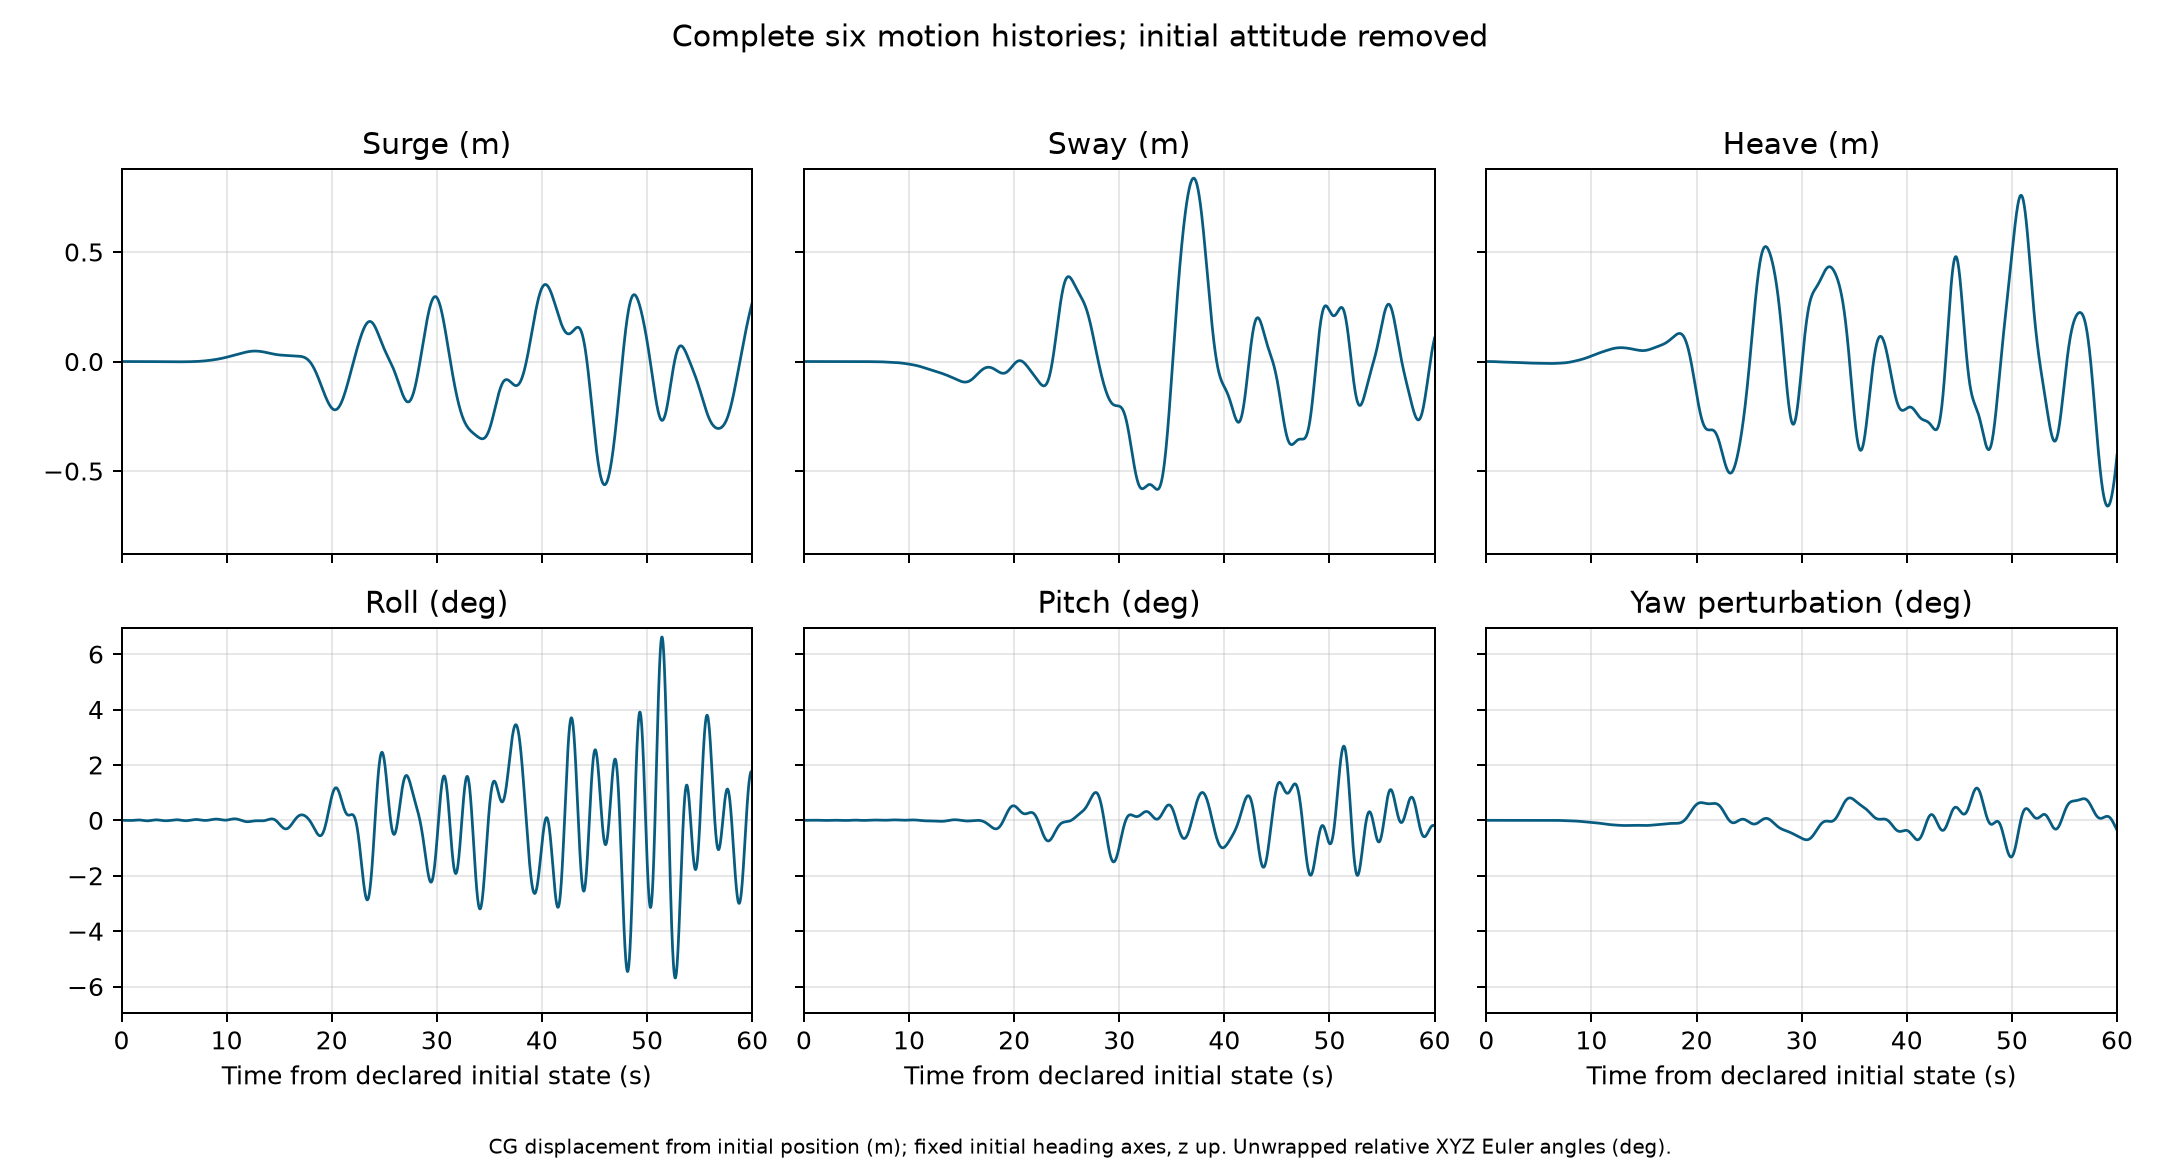
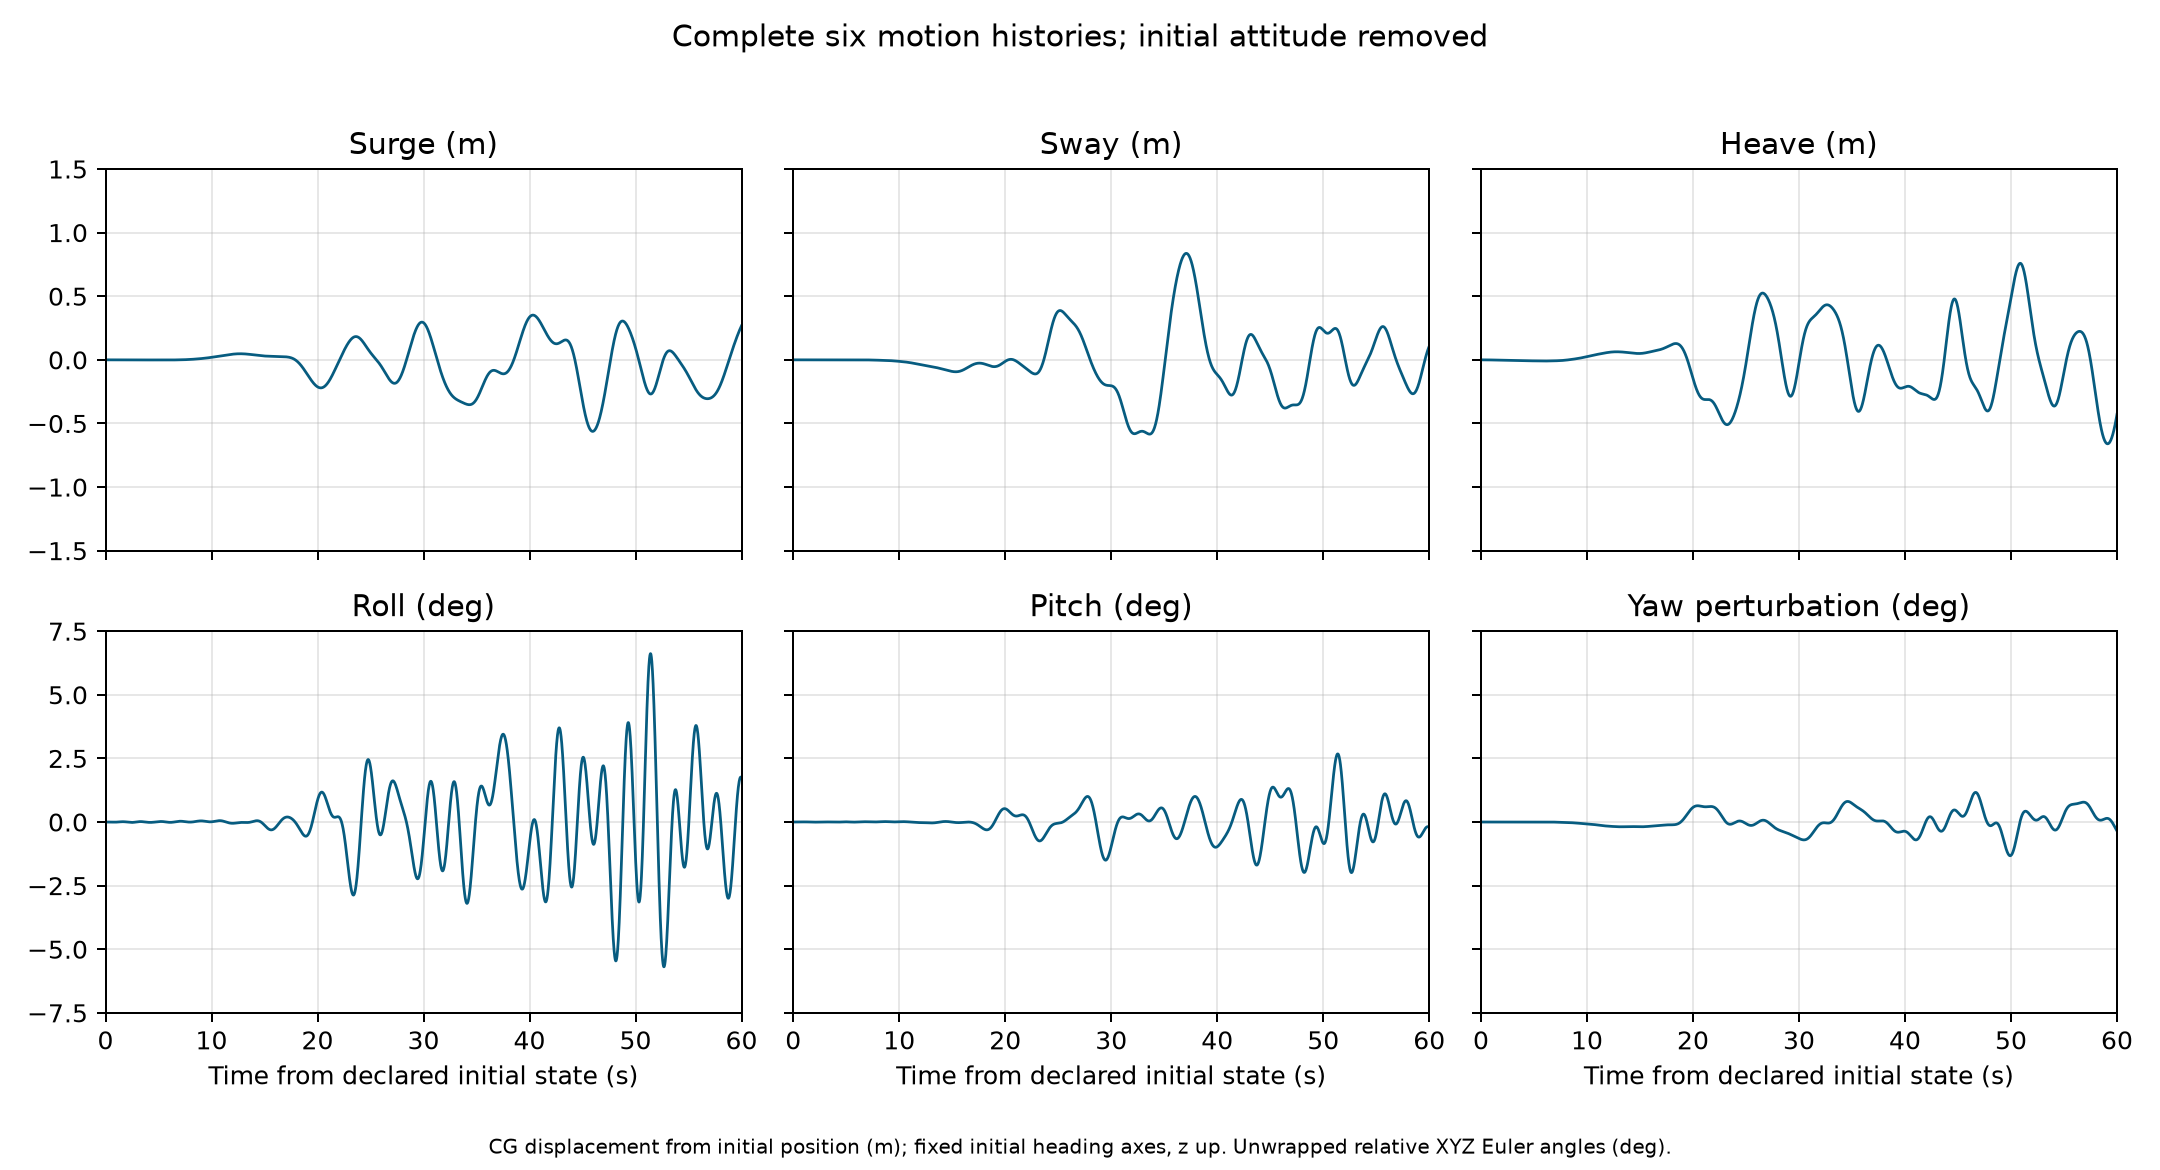
Use seven symmetric motion ticks and regenerate canonical chart

diff --git a/tests/test_result_plot.py b/tests/test_result_plot.py
@@ -119,3 +119,35 @@ def test_plot_rejects_wrong_contract_and_extension(tmp_path):
         motion_histories(object())
     with pytest.raises(ValueError, match='.png'):
         save_motion_plot(saved_motion_result([0., 1.]), tmp_path/'result.pdf')
+
+
+@pytest.mark.parametrize('extent', [0., 1e-9, 1., 1e9])
+def test_seven_nice_ticks_zero_middle_shared_rows_and_limits(tmp_path, monkeypatch, extent):
+    from matplotlib.backends.backend_agg import FigureCanvasAgg
+    import topwater.result_plot as module
+    times = np.array([0., 1., 2.])
+    histories = extent*np.array([[0., 0., 0., 0., 0., 0.],
+                                 [1., -.4, .7, -8., 3., .5],
+                                 [-.2, .8, -.6, 4., -2., 1.]])
+    monkeypatch.setattr(module, 'motion_histories', lambda result: (times, histories))
+    original = FigureCanvasAgg.print_png
+    observed = []
+
+    def inspect(canvas, *args, **kwargs):
+        observed.extend((axis.get_yticks().copy(), axis.get_ylim()) for axis in canvas.figure.axes)
+        return original(canvas, *args, **kwargs)
+
+    monkeypatch.setattr(FigureCanvasAgg, 'print_png', inspect)
+    save_motion_plot(saved_motion_result(times), tmp_path/'case'/'result.png')
+    assert len(observed) == 6
+    for index, (ticks, limits) in enumerate(observed):
+        assert len(ticks) == 7
+        assert ticks[3] == 0.
+        np.testing.assert_allclose(ticks, -ticks[::-1], rtol=0., atol=0.)
+        np.testing.assert_array_equal(limits, ticks[[0, -1]])
+        np.testing.assert_array_equal(ticks, observed[(index//3)*3][0])
+        np.testing.assert_array_equal(limits, observed[(index//3)*3][1])
+        assert np.max(abs(histories[:, index])) <= limits[1]/1.05
+        step = ticks[4]
+        nice = step/(10.**np.floor(np.log10(step)))
+        assert any(np.isclose(nice, value) for value in (1., 2., 2.5, 5., 10.))

diff --git a/src/topwater/result_plot.py b/src/topwater/result_plot.py
@@ -5,6 +5,7 @@ calculation belongs here. Absolute quaternions remain the orientation authority;
 Euler curves are a display of departure from the initial attitude.
 """
 import os
+import math
 from pathlib import Path
 import tempfile
 import warnings
@@ -13,6 +14,19 @@ import numpy as np
 from scipy.spatial.transform import Rotation
 
 from .workflow_data import Result
+
+
+def _motion_ticks(values):
+    """Seven symmetric nice decimal ticks, with at least 5% data headroom."""
+    extent = float(np.max(np.abs(values)))
+    if extent == 0.:
+        step = 1.
+    else:
+        target = (extent/3)*1.05
+        power = 10.**math.floor(math.log10(target))
+        step = next(multiplier*power for multiplier in (1., 2., 2.5, 5., 10.)
+                    if multiplier*power >= target)
+    return np.arange(-3, 4, dtype=float)*step
 
 
 def motion_histories(result: Result):
@@ -76,10 +90,10 @@ def save_motion_plot(result: Result, path):
         if index >= 3:
             axis.set_xlabel('Time from declared initial state (s)')
     for row, values in zip(axes, (histories[:, :3], histories[:, 3:])):
-        extent = float(np.max(np.abs(values)))
-        limit = 1.05*extent if extent > 0 else 1.
+        ticks = _motion_ticks(values)
         for axis in row:
-            axis.set_ylim(-limit, limit)
+            axis.set_yticks(ticks)
+            axis.set_ylim(ticks[0], ticks[-1])
     figure.suptitle('Complete six motion histories; initial attitude removed')
     figure.text(.5, .014,
                 'CG displacement from initial position (m); fixed initial heading axes, z up. '

diff --git a/docs/checkpoint-handoff.md b/docs/checkpoint-handoff.md
@@ -6,6 +6,26 @@ Historical queued work is not authorization to restart it.
 
 ## Current priority and completed workflow
 
+Latest added user request: visualization expert should render water to the actual
+moving waterline and make the hull above it transparent, keeping wetted hull
+visible. `/root/result_renderer` implemented the bounded change in isolated
+worktree artifacts/worktrees/waterline-visualization. Cap independently approved
+the frozen renderer/tests/docs; root tests and private preview precede full video
+regeneration. No producer, surface data or physics changes. The user explicitly
+requests regenerated chart/video from existing saved data.
+
+The seven-tick chart change is already integrated into the main baseline working
+tree: 23 plot/CLI tests pass. Root regenerated and viewed the complete PNG, then
+atomically published examples/simple-boat/result.png (SHA25697e01aa4...). Seven
+nice ticks are symmetric with zero in the middle, outer ticks at limits, shared
+translation range +/-1.5m and rotation range +/-7.5deg. Saved Result unchanged.
+
+User requested visible fork progress. Issues2/3 rewritten with plain-language
+current evidence; issue1 and PR8 updated. Inertia DRAFT PR9 now OPEN in our fork:
+fix/rigid-hydro-inertia-order at ad3ba0c, base topwater/reference25b58b. Nine focused
+portable example/test/recipe files, no SLX correction yet; new-head tests unrun
+and boundary assertion intentionally fails until audited patch. Not merge-ready.
+
 The user's order is working end to end, then correctness, then speed. The full
 public workflow now WORKS. No further performance changes are authorized now.
 Native coupled dynamics remain unimplemented. No solver/render streaming.
@@ -57,13 +77,41 @@ library preparation saved/reopened, but strictauditFAILED188 changed entries
 and2added beyond exact1maskheader. WEC owns read-only diagnosis; no whitelist or
 promotion. See experts/wecsim_expert/native-excitation-handoff-checkpoint-2026-10-25.md.
 
-BEMIO found a genuine retained dense FK/SC/H bank (31c0b956) and the GL2 full
-radiation data, but no proven drop-in full-contract native.mat. Cap owns a
-separate source-only retained-operator identity gate to compare the old physical
-operator against the canonical prepared case before any repacking/reuse. Main
-comparison manifest checks are consistency links, not independent historical
-lineage proof. If actual operator identity fails, freeze/run the current producer
-once instead. No actual WEC force/motion comparison or pin promotion yet.
+BEMIO found a genuine retained dense FK/SC/H bank (31c0b956) and GL2 full radiation
+data. Independently reviewed retained-operator-identity-attempt1 completed:
+physical/source/panel identity PASS; sole exact-grid failure is a4.44e-16rad/s
+floating-point alias. Job terminal/frozen/CIM verified, lease released. Root chose
+one fresh current producer run rather than add historical repacking/grid relabeling
+code. Independently reviewed native-coefficient-producer-attempt1 SUCCESS:
+1800genuineBEMcalls,8.5s after GFinit, exact current backend inputs/grids/cacheNone.
+Actualreceipts/source/outputhashes independently accepted for bounded forcecompare;
+operator manifest c57a86c7 under job's coefficients/. Fivecapytaine.libsDLLs missing
+from rootfreeze were producer-recorded before and match independent current hashes;
+limitation documented, includeall*.libsDLLs in futuremanifests. No newBEM needed.
+Job terminal/frozen/CIM verified, lease released; existingmesh/irregular warnings
+remain. No motion/surface/force history or canonical artifact was computed/changed.
+Main comparison manifest checks remain consistency links, not independent lineage
+proof. No actual WEC force/motion comparison or pin promotion yet.
+
+The independently reviewed private hidden-batch transport runs the same
+force-only workflow on held995, leaving the shared engine untouched.
+Attempt1 stopped BEFOREMATLAB at bytehash guard because resourcecopy LF→CRLF;
+terminal/frozen/lease released. Reviewed wrapper-only guardd434 normalizes CRLF
+before samehash;3puretestsPASS (attempt2; attempt1 collectionpathfailure preserved).
+Actual forcecomparison-attempt2 is TERMINAL: forces computed, then initial-calm
+gate FAILED; cleanup verified, no motion produced. All exact Python/MATLAB/
+launcher processes absent, frozen hashes verified and lease released. Native
+initial heave -37.257N versus offline -5.962N exceeds the 24.525N force-norm limit.
+Relative RMS differences are 1.052/2.703/0.252/2.446/1.301/4.353 percent for the
+six channels. Origin elevation phase error is 2.33e-15m. This run includes the
+held fork's full imported-history correction; excitation kernel is still +/-20s,
+dt.02, domega.005, while radiation memory is unchanged10s. No limits were relaxed.
+WEC owns a minimal stored-kernel/record replay discriminator for root's next
+serial diagnostic, separating actual convolution from finite-kernel effects.
+
+PrivateAPI audit diagnosis identifies an R2020b-to-R2025b full-save migration.
+WEC owns source-only preparation of separate untouched and one-header direct
+R2020b export controls; no audit whitelist, broad migration or binary promotion.
 
 Reviewed Cap coefficient exchange and existing surface Python controls now PASS
 45/45 in native-producer-tests-attempt1 (2.80s). Exact frozen identities and

diff --git a/docs/experts/wecsim_expert/native-excitation-handoff-checkpoint-2026-10-25.md b/docs/experts/wecsim_expert/native-excitation-handoff-checkpoint-2026-10-25.md
@@ -61,3 +61,56 @@ on identical coefficients and wave records, quantify all six channels and kernel
 window/quadrature sensitivity, then compare all six motion histories and the
 total-surface export. The first force-only comparison may use the explicitly held
 fork; that does not qualify the new combined fork or authorize changing its pin.
+
+## Fresh coefficient run
+
+The reviewed historical-bank identity check passed physical metadata, provenance
+and oriented-panel checks. Its exact common-grid gate rejected only a floating
+representation difference of 4.440892098500626e-16 rad/s. Rather than introduce
+historical repacking or relabeling, root ran the current producer once with the
+unchanged canonical inputs and production defaults.
+
+`native-coefficient-producer-attempt1/` completed all 1,800 genuine BEM solves
+(8.5 s after Green-function initialization). Its private `coefficients/` outputs
+include the full native FK/SC contract and source/input/geometry/output manifests.
+The independent reviewer verified all nine manifest file hashes, producer input
+and output hashes, and all 69 recorded Capytaine implementation/native file hashes.
+Operator manifest SHA256:
[1 lines of base64/hex data omitted]
+
+Five `capytaine.libs` DLLs were omitted from the coordinator's frozen-input list;
+the producer's recorded pre-run hashes match their independently checked current
+hashes. This limitation is preserved, and subsequent manifests include those DLLs.
+No rerun or coefficient correction is justified by this omission alone.
+
+The producer, source and recorded dependency checks passed; exact process absence
+was independently verified and the lease released. The existing 1,374 mesh and
+612 irregular-frequency warnings remain unresolved physical qualifications.
+The existing-directory export warning concerns a fresh owned scratch directory,
+as covered by the CLI warning triage. No motion, surface or force history was
+computed in this job, and no canonical file was changed.
+
+## First actual force comparison
+
+`native-force-comparison-attempt2/` computed WEC-Sim's excitation using the
+accepted current coefficients and the held995 full-history correction. The
+origin elevation check differed by only 2.33e-15 m. The +/-20 s finite excitation
+kernel used dt=0.02 s and frequency step=0.005 rad/s; radiation memory stayed10 s.
+
+| Channel | RMS difference / reference RMS |
+|---|---:|
+| Surge | 1.052% |
+| Sway | 2.703% |
+| Heave | 0.252% |
+| Roll | 2.446% |
+| Pitch | 1.301% |
+| Yaw | 4.353% |
+
+The initial heave force was -37.257 N versus -5.962 N in the offline reference;
+the native force exceeded the unchanged24.525 N initial force-norm limit. The
+startup gate correctly rejected the run, with no body motion produced. Cleanup
+was verified; exact process-tree absence and frozen identities were checked
+before releasing the lease. This is a measured discrepancy, not accepted
+equivalence. Its cause remains unestablished; a stored-data convolution/kernel
+discriminator is next. No ramp, retiming, amplitude change or limit relaxation
+was introduced.

diff --git a/docs/experts/wecsim_expert/current-state.md b/docs/experts/wecsim_expert/current-state.md
@@ -4,6 +4,14 @@ Updated2026-10-25. Currentauthority: [handoff](../../checkpoint-handoff.md),
 [physicalcontract](../shared-contract.md), [serialprocedure](../coordination.md).
 No author execution allocation or automatic follow-up. Root owns integration.
 
+Active-rigid inertia draft is locally packaged on isolated branch
+`fix/rigid-hydro-inertia-order`, commit `ad3ba0cfb212fb5fedbed84ef3891513cff5336e`,
+directly based on combined25b58b. Nine focused source/example/test/audit files
+are reviewable; no corrected SLX is included or promoted. The production-boundary
+assertion deliberately fails until that binary is independently qualified.
+Measured standalone evidence is linked; the portable packaged head is unexecuted.
+Root owns publication and next checks; no author push/PR/merge/pin change occurred.
+
 Root's native-excitation component checks passed: backend plus offline comparison
 36/36, and MATLAB startup diagnostic/gate2/2. After the reviewed test-only cwd
 teardown correction (`01f60c0c`), startup attempt2 again passed2/2 with a clean

diff --git a/docs/cli/solve.md b/docs/cli/solve.md
@@ -75,6 +75,9 @@ trim is removed. All native motion timestamps are used, with no smoothing.
 The PNG is 2160 by 1170 pixels (12 by 6.5 inches at 180 dpi).
 Translations share one symmetric Y range in metres; rotations share a separate
 symmetric Y range in degrees. Each range includes all three histories in its row.
+Each row has exactly seven equally spaced major Y ticks at nice decimal values,
+with zero always in the middle. The first and last ticks are the axis limits;
+the common row range retains at least 5% headroom over all saved motions.
 
 An initial bow with no resolved horizontal projection is a fatal plot limitation
 before either new output is published. Euler gimbal lock emits a presentation
